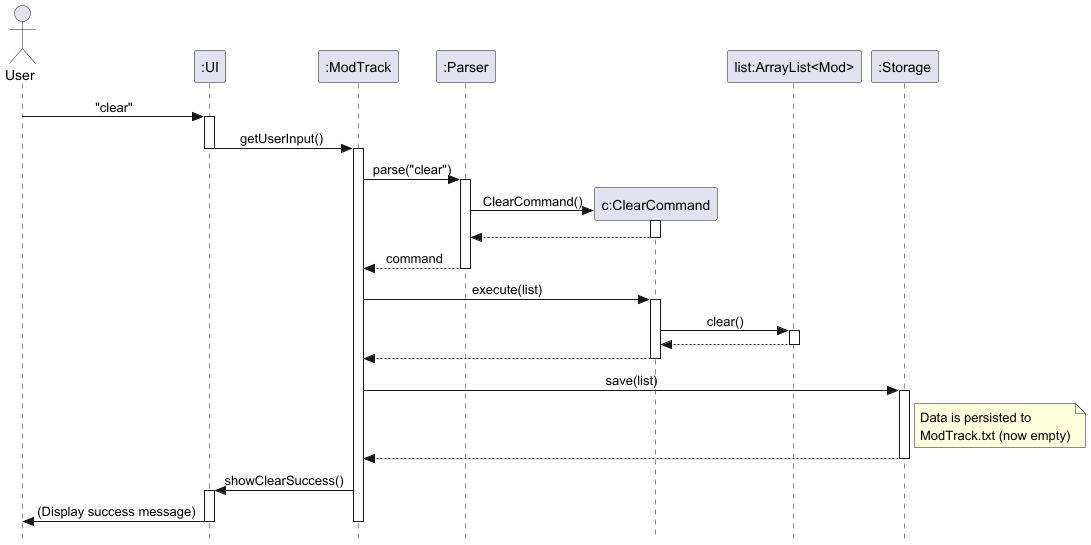
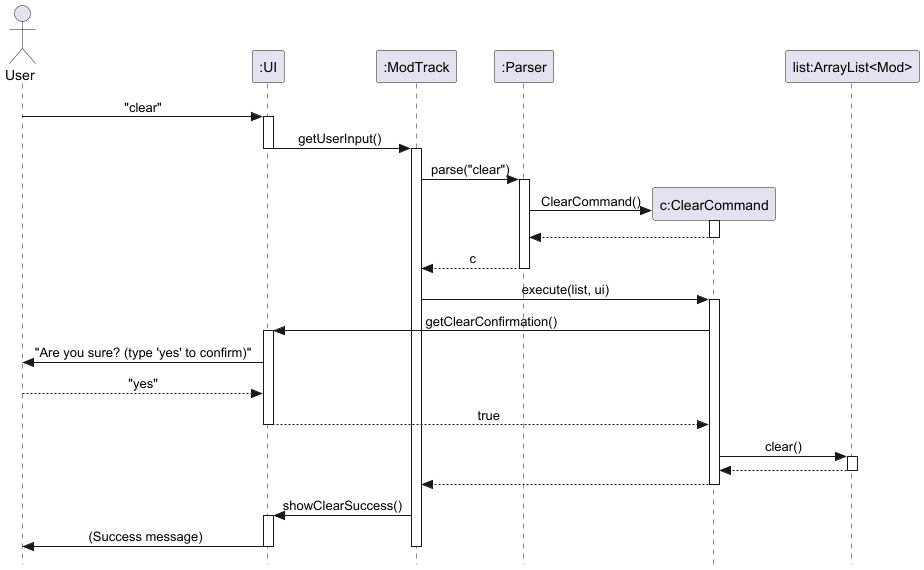
updated clear command section in UG and DG

diff --git a/docs/DeveloperGuide.md b/docs/DeveloperGuide.md
@@ -288,11 +288,19 @@ The **`ClearCommand`** allows for the removal of all modules from the tracker, e
 
 **Implementation**
 
-The clear mechanism is managed by the **Logic** component and persisted via the **Storage** component. Upon execution, the `ClearCommand` calls the `clear()` method on the `ArrayList<Mod>`, removing all tracked modules from memory. After the command successfully executes, the main loop in `ModTrack` immediately calls `Storage#save()` to overwrite the data file with an empty list, ensuring the total reset is persisted to the disk.
+The clear mechanism is managed by the **Logic** component and involves a two-step verification process to prevent accidental data loss:
 
-> [!NOTE]
-> This operation is irreversible once the `Storage#save()` method is called, as the existing `ModTrack.txt` file is overwritten with a blank state.
+1. **Confirmation Prompt**: Upon execution, `ClearCommand` interacts with the `UI` to display a warning and request explicit user confirmation (e.g., typing 'yes').
+2. **Execution Gate**:
+    * If the user **declines** or provides invalid confirmation, the command terminates early, and the module list remains unchanged.
+    * If the user **confirms**, the command calls the `clear()` method on the `ArrayList<Mod>`, removing all tracked modules from memory.
 
+**Persistence**
+
+Following a successful (confirmed) execution, the main loop in `ModTrack` calls `Storage#save()` to overwrite the data file with an empty list. If the operation was cancelled during the confirmation step, the save call effectively persists the original, unmodified list, ensuring no data is lost.
+
+> [!IMPORTANT]
+> This operation is irreversible once confirmed and saved, as the existing `ModTrack.txt` file is overwritten with a blank state.
 
 **Example:**
 
@@ -301,32 +309,26 @@ clear
 ```
 
 ##### Parsing Logic
-
-The `Parser` identifies the `clear` keyword and constructs a `ClearCommand` object with no additional arguments.
+The `Parser` identifies the `clear` keyword and constructs a `ClearCommand` object. No additional arguments or flags are required.
 
 ##### Class Interaction
+* **`Parser`**: Constructs the `ClearCommand`.
+* **`ClearCommand`**: Invokes `Ui#getClearConfirmation()` to halt execution until the user provides a "yes" input.
+* **`ArrayList<Mod>`**: If confirmed, `clear()` is invoked on the list to remove all `Mod` objects.
+* **`Storage`**: Overwrites the data file with the empty list state immediately after successful execution.
 
-* `Parser` constructs the `ClearCommand`
-* `ClearCommand` invokes `clear()` on the `ArrayList<Mod>`
-* `Storage` persists the cleared state after execution
+##### Guard Mechanism (New)
+To mitigate the risk of accidental data loss, the `ClearCommand` implements a **blocking confirmation gate**. The logic checks for a case-insensitive "yes" string from the standard input. Any other input (including "no" or accidental keystrokes) will abort the command and keep the module list intact.
 
 ##### Edge Cases and Error Handling
-
-The feature currently handles the following cases:
-
-* clearing an already empty list
-* no partial state remains after successful execution
-
-##### Current Limitation
-
-The current implementation does not request a confirmation prompt before wiping all tracked data.
+* **Empty List**: Clearing an already empty list is allowed; the user is still prompted for confirmation, and the storage file is refreshed.
+* **Aborted Confirmation**: If the user cancels the prompt, the system logs the cancellation and returns to the main execution loop without modifying the data file.
 
 ##### Cross-Feature Interaction
-
-This command resets all data used by all other commands. After `clear`, commands such as `mark`, `transfer`, `showprereq`, and `list c/` will operate on an empty module list until modules are added again.
+This command serves as a hard reset for the application state. After a successful `clear`, features like `list c/` (Graduation Comparison) will report all requirements as "Missing" until the `ReferenceList` is re-populated via new `add` commands.
 
 The following sequence diagram shows how a clear operation goes through the system:
-![img_10.png](ClearCommandDiagram.png)
+![img_4.png](ClearCommandDiagram.png)
 
 #### 4. List Feature
 

diff --git a/docs/UserGuide.md b/docs/UserGuide.md
@@ -221,20 +221,29 @@ Core Modules:
 - CS1010
 - CG1111A
 - MA1511
-...
-
 ```
 
 ### Clearing all data: `clear`
 
 Deletes all currently tracked modules from the list.
+
 > [!WARNING]
 > This action is irreversible. All module data, including completion status and prerequisites, will be permanently removed.
 
-Format: `clear`
-Example Output:
+**Format:** `clear`
+
+**Confirmation Step:**
+Upon entering the command, the application will prompt you for confirmation to prevent accidental data loss. You must type `yes` and press Enter to proceed. Any other input will cancel the operation.
+
+**Example Interaction:**
 ```text
+> clear
+!!!!!!!!!!!!!!!!!!!!!!!!!!!!!!!!!!!!!!!!!!!!!!!!!!
+WARNING: This will delete ALL tracked modules.
+Are you sure? (type 'yes' to confirm): yes
+----------------------------------------------------
 Noted. All modules have been cleared. Now you have an empty list.
+----------------------------------------------------
 ```
 
 ### Exiting the program: `exit`
